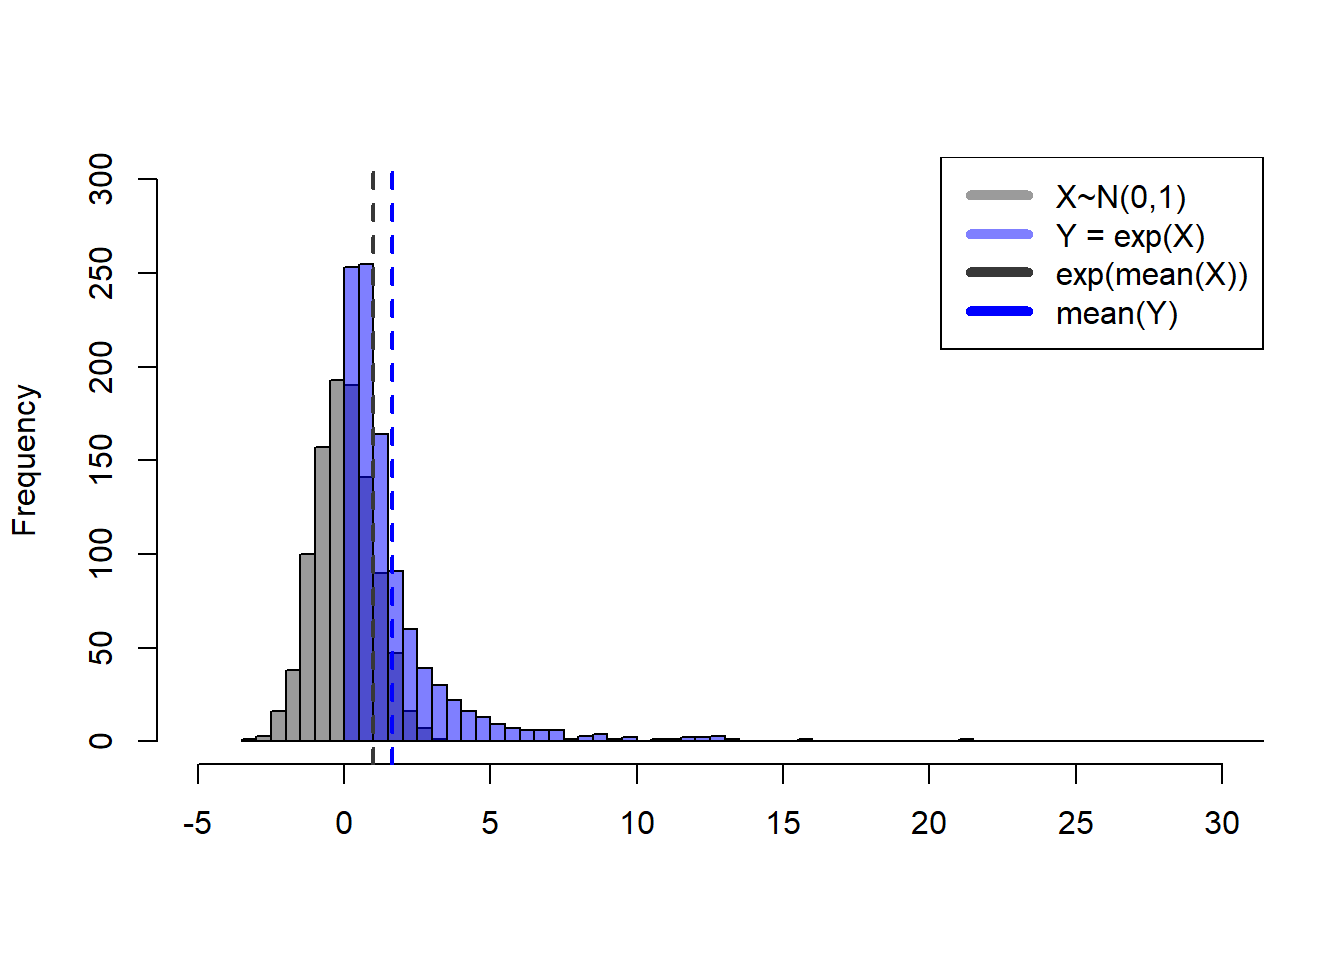
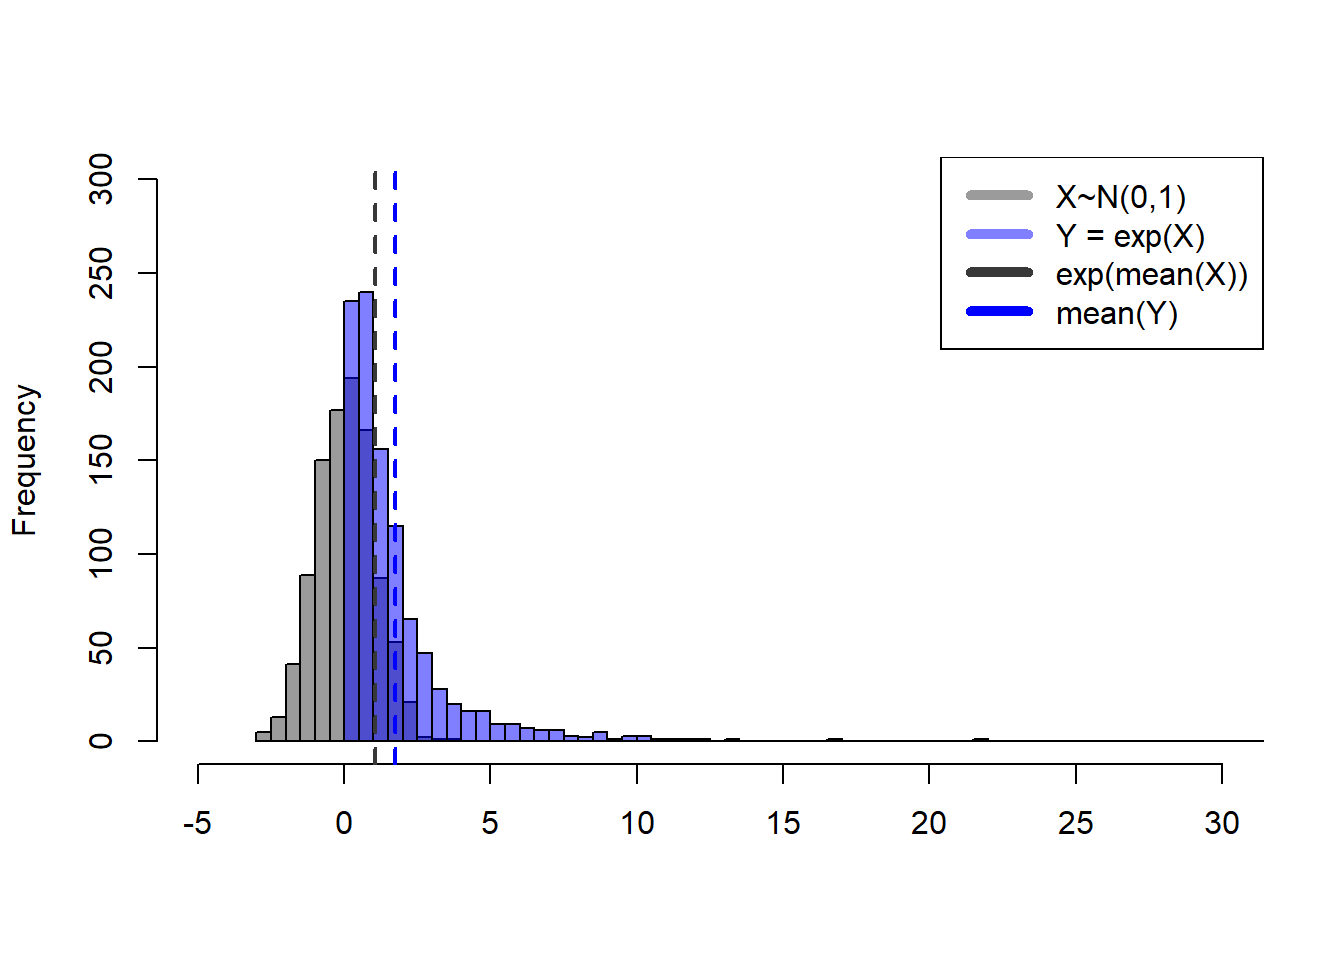
how to get CV from log transformed data
as a note to self

diff --git a/docs/posts/2021-01-25_recDevs/recdevs.html b/docs/posts/2021-01-25_recDevs/recdevs.html
@@ -180,6 +180,7 @@ code span.wa { color: #60a0b0; font-weight: bold; font-style: italic; } /* Warni
   <li><a href="#refreshing-the-lognormal-distribution." id="toc-refreshing-the-lognormal-distribution." class="nav-link" data-scroll-target="#refreshing-the-lognormal-distribution.">Refreshing the lognormal distribution.</a></li>
   <li><a href="#bias-correction-to-the-rescue" id="toc-bias-correction-to-the-rescue" class="nav-link" data-scroll-target="#bias-correction-to-the-rescue">Bias correction to the rescue</a></li>
   <li><a href="#bonus-why-this-isnt-perfect" id="toc-bonus-why-this-isnt-perfect" class="nav-link" data-scroll-target="#bonus-why-this-isnt-perfect">Bonus: why this isn’t perfect</a></li>
+  <li><a href="#bonus-2-a-note-on-lognormal-cvs" id="toc-bonus-2-a-note-on-lognormal-cvs" class="nav-link" data-scroll-target="#bonus-2-a-note-on-lognormal-cvs">Bonus 2: A note on lognormal CVs</a></li>
   </ul>
 </nav>
     </div>
@@ -265,17 +266,17 @@ R_{expected,y} = R_{det,y}e^{(dev_y-\sigma^2/2)}
 <div class="sourceCode cell-code" id="cb1"><pre class="sourceCode r code-with-copy"><code class="sourceCode r"><span id="cb1-1"><a href="#cb1-1" aria-hidden="true" tabindex="-1"></a><span class="do">## should be close to 0</span></span>
 <span id="cb1-2"><a href="#cb1-2" aria-hidden="true" tabindex="-1"></a><span class="fu">mean</span>(X) </span></code><button title="Copy to Clipboard" class="code-copy-button"><i class="bi"></i></button></pre></div>
 <div class="cell-output cell-output-stdout">
-<pre><code>[1] -0.002514139</code></pre>
+<pre><code>[1] 0.04865703</code></pre>
 </div>
 <div class="sourceCode cell-code" id="cb3"><pre class="sourceCode r code-with-copy"><code class="sourceCode r"><span id="cb3-1"><a href="#cb3-1" aria-hidden="true" tabindex="-1"></a><span class="do">## should be close to 1</span></span>
 <span id="cb3-2"><a href="#cb3-2" aria-hidden="true" tabindex="-1"></a><span class="fu">exp</span>(<span class="fu">mean</span>(X))</span></code><button title="Copy to Clipboard" class="code-copy-button"><i class="bi"></i></button></pre></div>
 <div class="cell-output cell-output-stdout">
-<pre><code>[1] 0.997489</code></pre>
+<pre><code>[1] 1.04986</code></pre>
 </div>
 <div class="sourceCode cell-code" id="cb5"><pre class="sourceCode r code-with-copy"><code class="sourceCode r"><span id="cb5-1"><a href="#cb5-1" aria-hidden="true" tabindex="-1"></a><span class="do">## yet the mean of the blue distribution is larger...</span></span>
 <span id="cb5-2"><a href="#cb5-2" aria-hidden="true" tabindex="-1"></a><span class="fu">mean</span>(<span class="fu">exp</span>(X)) </span></code><button title="Copy to Clipboard" class="code-copy-button"><i class="bi"></i></button></pre></div>
 <div class="cell-output cell-output-stdout">
-<pre><code>[1] 1.642814</code></pre>
+<pre><code>[1] 1.744439</code></pre>
 </div>
 <div class="sourceCode cell-code" id="cb7"><pre class="sourceCode r code-with-copy"><code class="sourceCode r"><span id="cb7-1"><a href="#cb7-1" aria-hidden="true" tabindex="-1"></a><span class="do">##... in fact, the expected value of exp(X) is ~exp(mu+sigma/2)</span></span>
 <span id="cb7-2"><a href="#cb7-2" aria-hidden="true" tabindex="-1"></a><span class="fu">exp</span>(mu<span class="sc">+</span>sigma<span class="sc">^</span><span class="dv">2</span><span class="sc">/</span><span class="dv">2</span>)</span></code><button title="Copy to Clipboard" class="code-copy-button"><i class="bi"></i></button></pre></div>
@@ -298,16 +299,16 @@ R_{expected,y} = R_{det,y}e^{(dev_y-\sigma^2/2)}
 <div class="sourceCode cell-code" id="cb9"><pre class="sourceCode r code-with-copy"><code class="sourceCode r"><span id="cb9-1"><a href="#cb9-1" aria-hidden="true" tabindex="-1"></a><span class="do">## as above, the mean is close to 1 without adjustment</span></span>
 <span id="cb9-2"><a href="#cb9-2" aria-hidden="true" tabindex="-1"></a><span class="fu">exp</span>(<span class="fu">mean</span>(X)) </span></code><button title="Copy to Clipboard" class="code-copy-button"><i class="bi"></i></button></pre></div>
 <div class="cell-output cell-output-stdout">
-<pre><code>[1] 0.997489</code></pre>
+<pre><code>[1] 1.04986</code></pre>
 </div>
 <div class="sourceCode cell-code" id="cb11"><pre class="sourceCode r code-with-copy"><code class="sourceCode r"><span id="cb11-1"><a href="#cb11-1" aria-hidden="true" tabindex="-1"></a><span class="do">## ...though the actual mean is greater, by a factor of sigma^2/2</span></span>
 <span id="cb11-2"><a href="#cb11-2" aria-hidden="true" tabindex="-1"></a><span class="fu">mean</span>(<span class="fu">exp</span>(X)) </span></code><button title="Copy to Clipboard" class="code-copy-button"><i class="bi"></i></button></pre></div>
 <div class="cell-output cell-output-stdout">
-<pre><code>[1] 1.642814</code></pre>
+<pre><code>[1] 1.744439</code></pre>
 </div>
 <div class="sourceCode cell-code" id="cb13"><pre class="sourceCode r code-with-copy"><code class="sourceCode r"><span id="cb13-1"><a href="#cb13-1" aria-hidden="true" tabindex="-1"></a><span class="fu">mean</span>(<span class="fu">exp</span>(X<span class="dv">-1</span><span class="sc">^</span><span class="dv">2</span><span class="sc">/</span><span class="dv">2</span>)) <span class="do">## with bias correction, closer to 1 again!</span></span></code><button title="Copy to Clipboard" class="code-copy-button"><i class="bi"></i></button></pre></div>
 <div class="cell-output cell-output-stdout">
-<pre><code>[1] 0.996417</code></pre>
+<pre><code>[1] 1.058056</code></pre>
 </div>
 </div>
 <p>One last thing. Normally we present a time series of rec-devs, and leave them in log space (to get around the scale issue I mentioned above).</p>
@@ -323,6 +324,17 @@ R_{expected,y} = R_{det,y}e^{(dev_y-\sigma^2/2)}
 <h1>Bonus: why this isn’t perfect</h1>
 <p>This came up on my General Exam for my PhD. I was asked to walk through the basic logic of the recruitment deviation and why we apply bias correction. Then I was asked, “why is this wrong?”.</p>
 <p>Part of the answer lies in the fact that this is a conscious decision made by <em>fisheries population dynamicists</em> to make parts of our models behave in the way we want. Specifically, after applying our bias adjustment factor, the resulting recruitment timeseries will have a median value that is less than the deterministic curve shown above. In the Methot &amp; Taylor paper linked up top, they mention that this is sensible since the average recruitment is most representative of a recruitment event’s long-term contribution to the population, “because most of the population biomass comes from the numerous recruits in the upper tail of the lognormal distribution”. If you’re working with a different data type or hope to gain information from the <em>median</em> behavior of this process, such an adjustment is not for you.</p>
+</section>
+<section id="bonus-2-a-note-on-lognormal-cvs" class="level1">
+<h1>Bonus 2: A note on lognormal CVs</h1>
+<p>This came up during some work on VAST. f you have low log-SDs (i.e., &lt;0.1), then the log-SD is basically identical to CV – log-SD is the SD of the index in log-space, and makes sense if you’re fitting the index as a lognormal distribution. <strong>Here’s how to convert a log-normal mean and standard deviation to a CV on the normal scale</strong>, otherwise.</p>
+<p>Consider a random variable X that follows a lognormal distribution: <span class="math inline">\(X \sim Lognormal(μ, σ)\)</span></p>
+<p>We know that when converting into non-log space, the mean of <span class="math inline">\(X\)</span> should be <span class="math inline">\(μ_X = e(μ + (σ^2)/2)\)</span> and the standard deviation should be <span class="math inline">\(σ_X = \sqrt{e^{σ^2-1}} e^{μ + σ^2/2}\)</span> (check the <a href="https://en.wikipedia.org/wiki/Log-normal_distribution#Probability_in_different_domains">lognormal wiki</a> page for details.)</p>
+<p>The coefficient of variation (CV) on the original scale is defined as the ratio of the standard deviation to the mean of the random variable X: <span class="math inline">\(CV_{original} = \frac{σ_X}{μ_X}\)</span></p>
+<p>Via substitution:</p>
+<p><span class="math inline">\(\frac{\sqrt{e^{σ^2-1}}e^{μ + σ^2/2})} {(e^{μ + σ^2/2})}\)</span></p>
+<p>Cancel out the common term (<span class="math inline">\(e^{μ + σ^2/2})\)</span>) in the numerator and denominator, leaving:</p>
+<p><span class="math inline">\(\sqrt{e^{σ^2-1}}\)</span></p>
 
 
 </section>

diff --git a/docs/index.html b/docs/index.html
@@ -310,7 +310,7 @@ Feb 10, 2021
 </div>
 </a>
 </div>
-<div class="g-col-1" data-index="5" data-categories="" data-listing-date-sort="1611561600000" data-listing-file-modified-sort="1687733207550" data-listing-reading-time-sort="10.155">
+<div class="g-col-1" data-index="5" data-categories="" data-listing-date-sort="1611561600000" data-listing-file-modified-sort="1688413982858" data-listing-reading-time-sort="11.96">
 <a href="./posts/2021-01-25_recDevs/recdevs.html" class="quarto-grid-link">
 <div class="quarto-grid-item card h-100 card-left">
 <p class="card-img-top">
